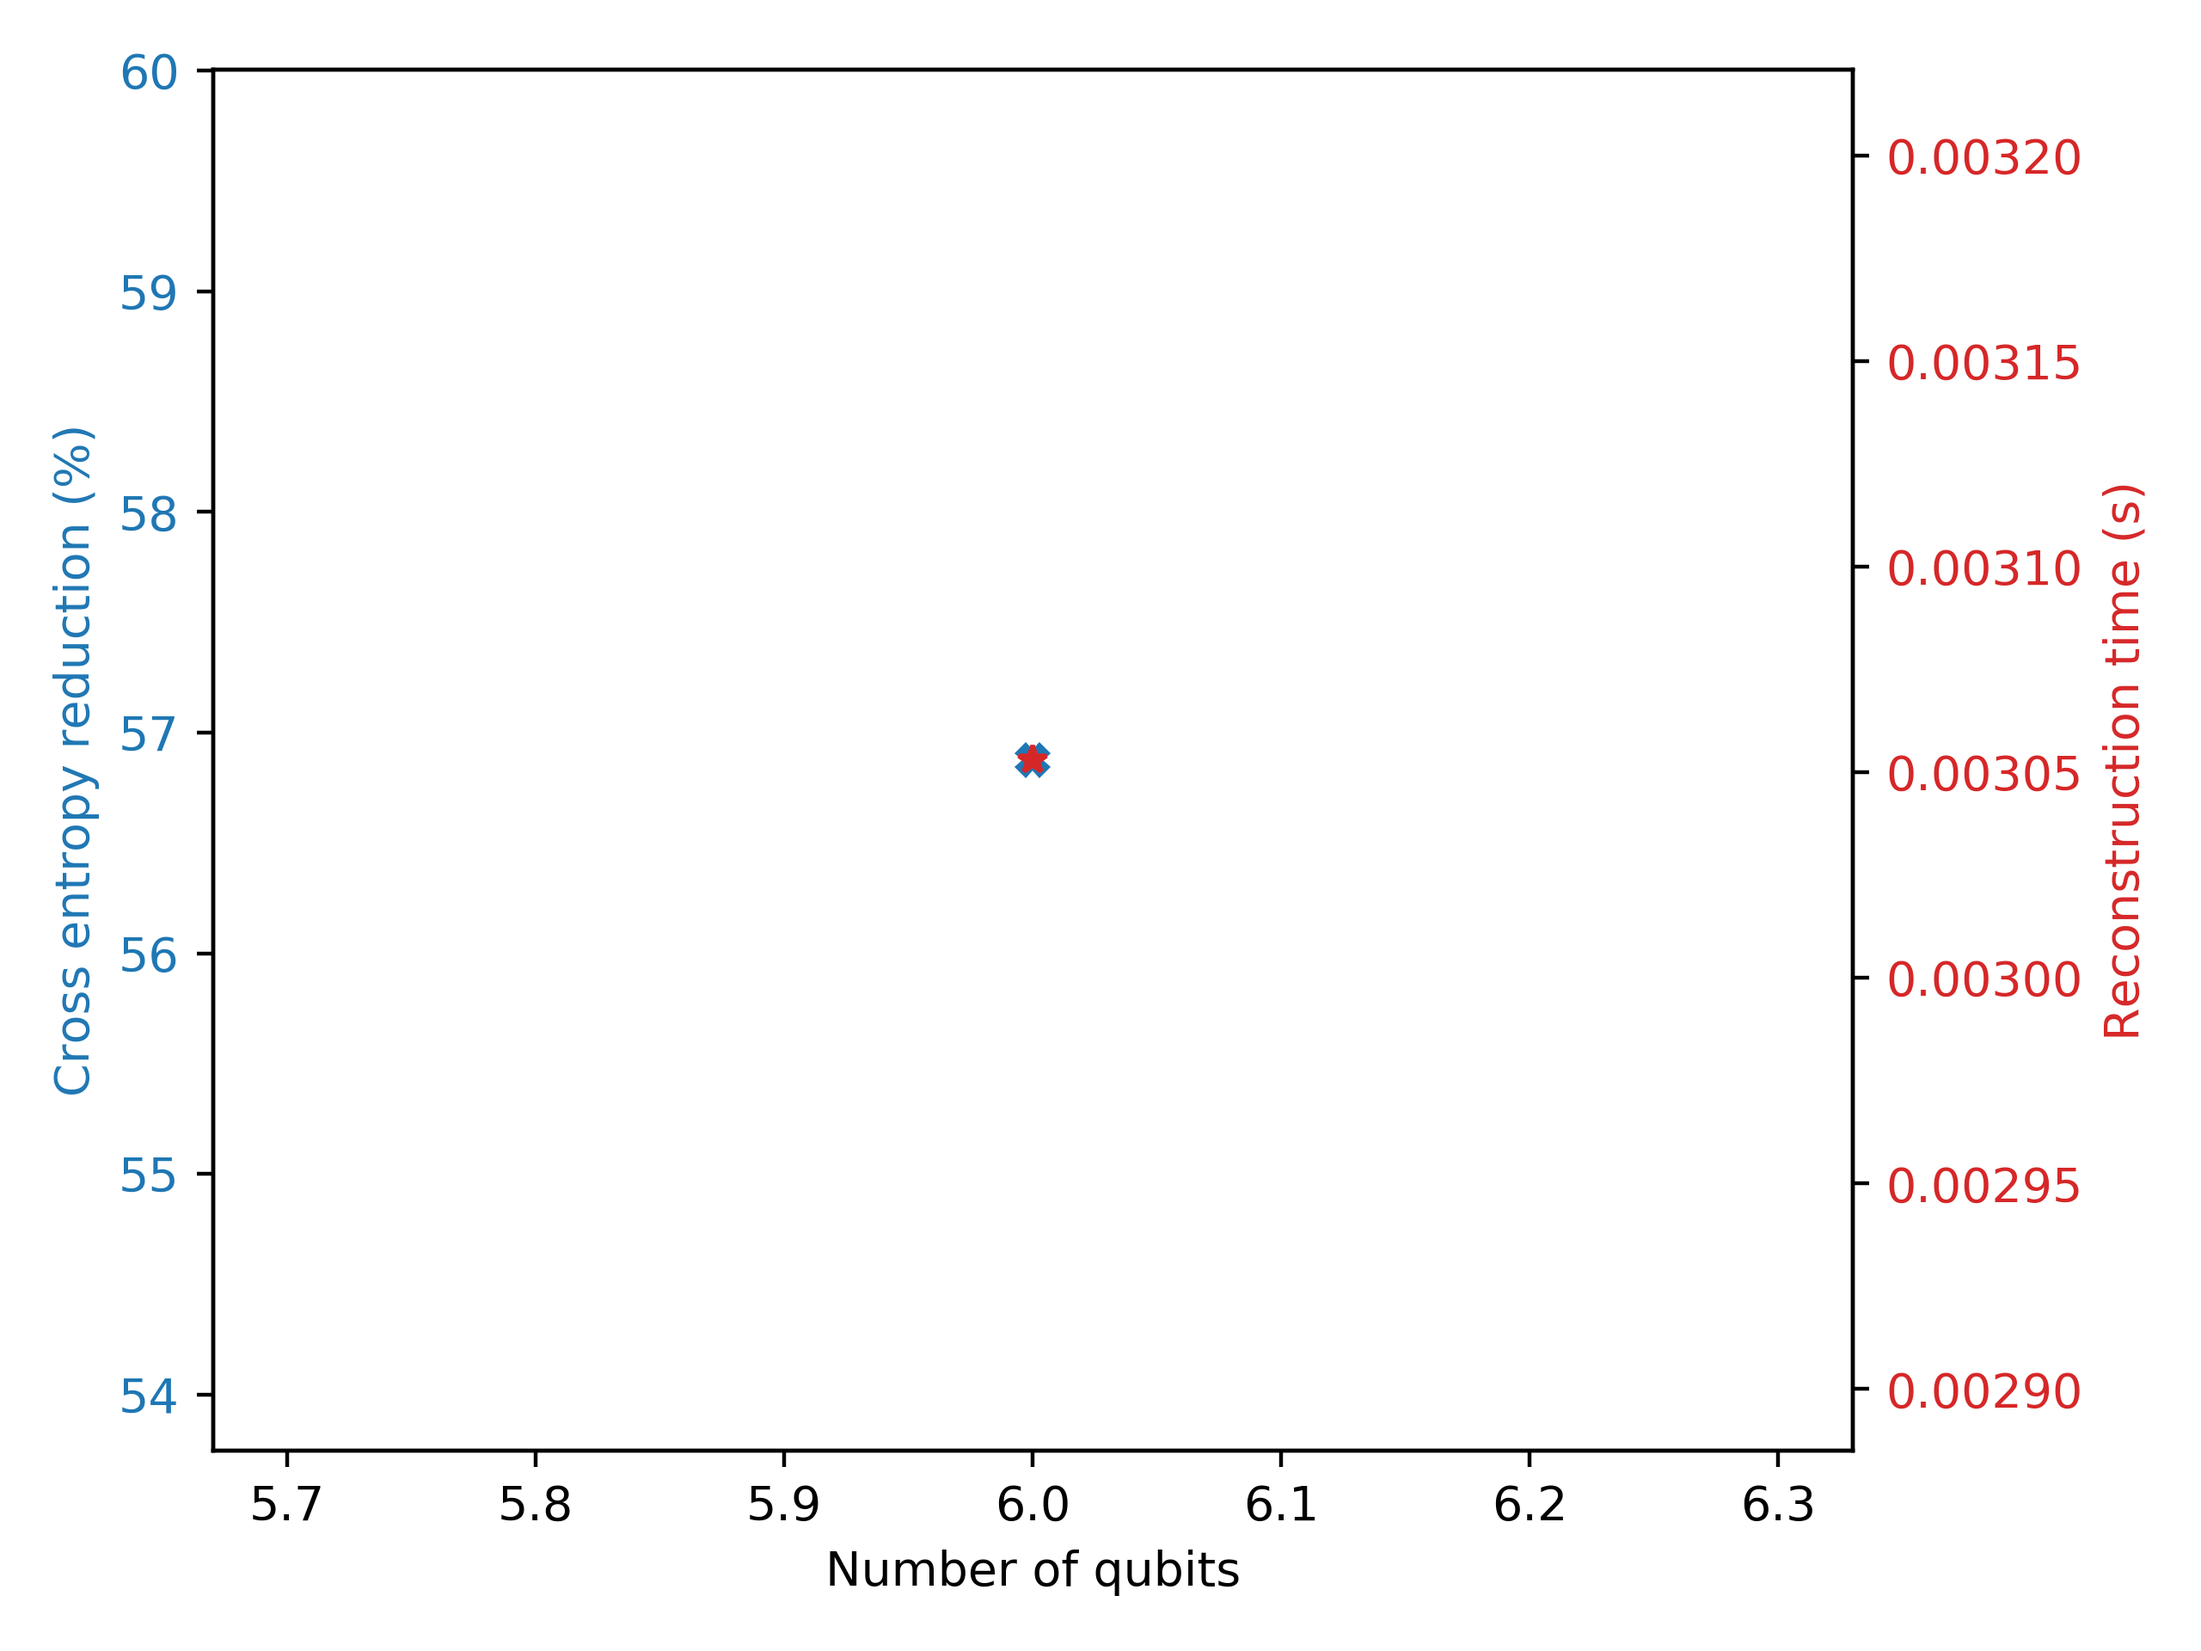
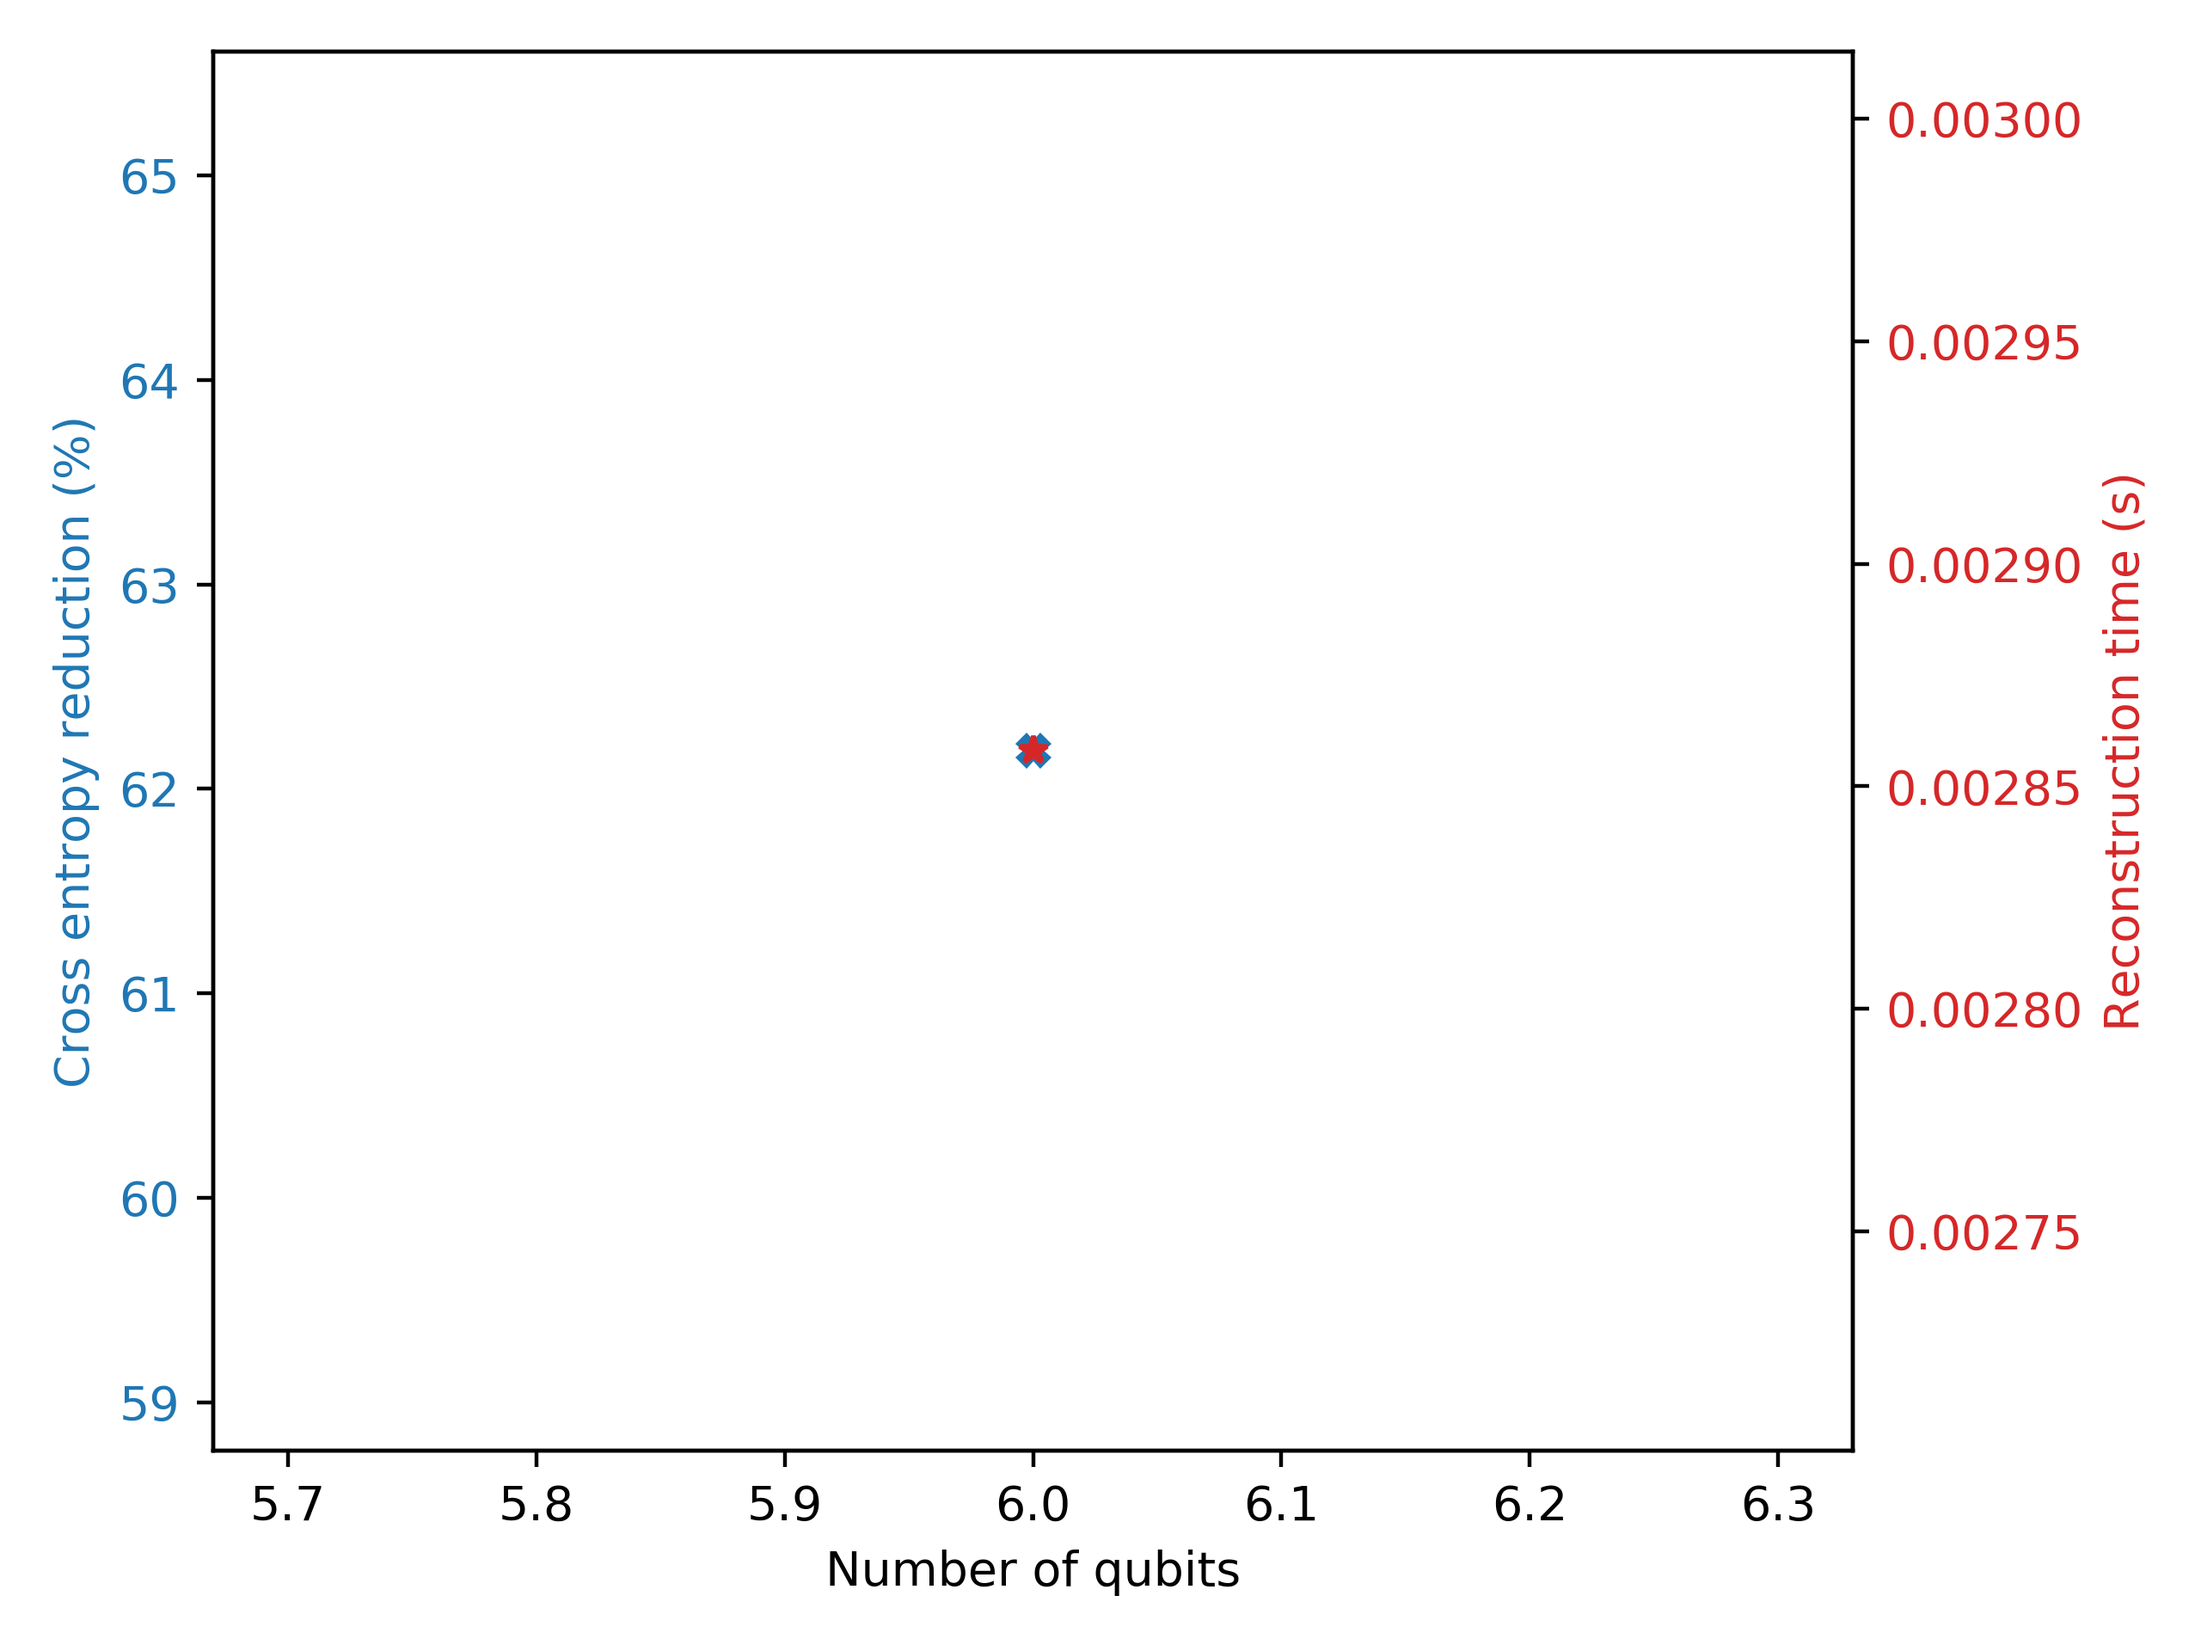
added tensored readout mitigation

diff --git a/helper_fun.py b/helper_fun.py
@@ -184,7 +184,7 @@ def readout_mitigation(num_shots,device,initial_layout):
             qubit_list.append(q)
     meas_calibs, state_labels = complete_meas_cal(qubit_list=qubit_list, qr=qr, circlabel='mcal')
     print('Calculating measurement filter, %d-qubit calibration circuits * %d * %.3e shots.'%(len(meas_calibs[0].qubits),len(meas_calibs),num_shots),end=' ')
-    assert len(meas_calibs)<=500
+    assert len(meas_calibs)<=device.configuration().max_experiments/2
 
     # Execute the calibration circuits
     meas_calibs_transpiled = transpile(meas_calibs, backend=device)
@@ -199,8 +199,8 @@ def readout_mitigation(num_shots,device,initial_layout):
     print('%.3e seconds'%filter_time)
     return meas_filter
 
-# Tensored readout mitigation
-def tensored_readout_mitigation(num_shots,device,initial_layout):
+# Fully local readout mitigation
+def fully_local_readout_mitigation(num_shots,device,initial_layout):
     if num_shots>device.configuration().max_shots:
         print('During tensored readout mitigation, num_shots %.3e exceeded hardware max'%num_shots)
         num_shots = device.configuration().max_shots
@@ -215,6 +215,45 @@ def tensored_readout_mitigation(num_shots,device,initial_layout):
     for q in _initial_layout:
         if 'ancilla' not in _initial_layout[q].register.name:
             mit_pattern.append([q])
+    meas_calibs, state_labels = tensored_meas_cal(mit_pattern=mit_pattern, qr=qr, circlabel='mcal')
+    print('Calculating measurement filter, %d-qubit calibration circuits * %d * %.3e shots.'%(len(meas_calibs[0].qubits),len(meas_calibs),num_shots),end=' ')
+
+    # Execute the calibration circuits
+    meas_calibs_transpiled = transpile(meas_calibs, backend=device)
+    qobj = assemble(meas_calibs_transpiled, backend=device, shots=num_shots)
+    job = device.run(qobj)
+    # print(job.job_id())
+    cal_results = job.result()
+
+    meas_fitter = TensoredMeasFitter(cal_results, mit_pattern=mit_pattern)
+    meas_filter = meas_fitter.filter
+    filter_time = time() - filter_begin
+    print('%.3e seconds'%filter_time)
+    return meas_filter
+
+# Tensored readout mitigation
+def tensored_readout_mitigation(num_shots,device,initial_layout):
+    if num_shots>device.configuration().max_shots:
+        print('During tensored readout mitigation, num_shots %.3e exceeded hardware max'%num_shots)
+        num_shots = device.configuration().max_shots
+    filter_begin = time()
+    properties = device.properties()
+    max_group_len = int(np.log2(device.configuration().max_experiments/2))
+
+    # Generate the calibration circuits
+    num_qubits = len(properties.qubits)
+    qr = QuantumRegister(num_qubits)
+    mit_pattern = []
+    _initial_layout = initial_layout.get_physical_bits()
+    group = []
+    for q in _initial_layout:
+        if 'ancilla' not in _initial_layout[q].register.name:
+            if len(group) == max_group_len:
+                mit_pattern.append(group)
+                group = [q]
+            else:
+                group.append(q)
+    mit_pattern.append(group)
     meas_calibs, state_labels = tensored_meas_cal(mit_pattern=mit_pattern, qr=qr, circlabel='mcal')
     print('Calculating measurement filter, %d-qubit calibration circuits * %d * %.3e shots.'%(len(meas_calibs[0].qubits),len(meas_calibs),num_shots),end=' ')
 
@@ -252,7 +291,7 @@ def get_evaluator_info(circ,device_name,fields):
 
     if 'meas_filter' in fields:
         num_shots = find_saturated_shots(circ)
-        meas_filter = readout_mitigation(num_shots,device,initial_layout)
+        meas_filter = tensored_readout_mitigation(num_shots,device,initial_layout)
         _evaluator_info['meas_filter'] = meas_filter
         _evaluator_info['num_shots'] = num_shots
     elif 'num_shots' in fields:

diff --git a/hardware_job_submittor.py b/hardware_job_submittor.py
@@ -3,6 +3,7 @@ import pickle
 import argparse
 from qiskit.compiler import transpile, assemble
 from helper_fun import get_evaluator_info, evaluate_circ, apply_measurement, reverseBits
+from time import time
 
 def submit_hardware_jobs(cluster_instances, evaluator_info):
     if evaluator_info['num_shots']>evaluator_info['device'].configuration().max_shots:
@@ -65,7 +66,12 @@ if __name__ == '__main__':
             print('Cluster %d has %d instances'%(cluster_idx,len(cluster_instances)))
             evaluator_info = get_evaluator_info(circ=cluster_circ,device_name=device_name,
             fields=['device','basis_gates','coupling_map','properties','initial_layout','noise_model','num_shots','meas_filter'])
+            hw_begin = time()
             hw_probs = submit_hardware_jobs(cluster_instances=cluster_instances,evaluator_info=evaluator_info)
+            hw_elapsed = time()-hw_begin
+            print('Hardware queue time = %.3e seconds'%hw_elapsed)
             job_submittor_input[case]['all_cluster_prob'][cluster_idx] = hw_probs
+        print('*'*50)
+    print('-'*100)
     filename = args.input_file.replace('job_submittor_input','hardware_uniter_input')
     pickle.dump(job_submittor_input, open('%s'%filename,'wb'))
